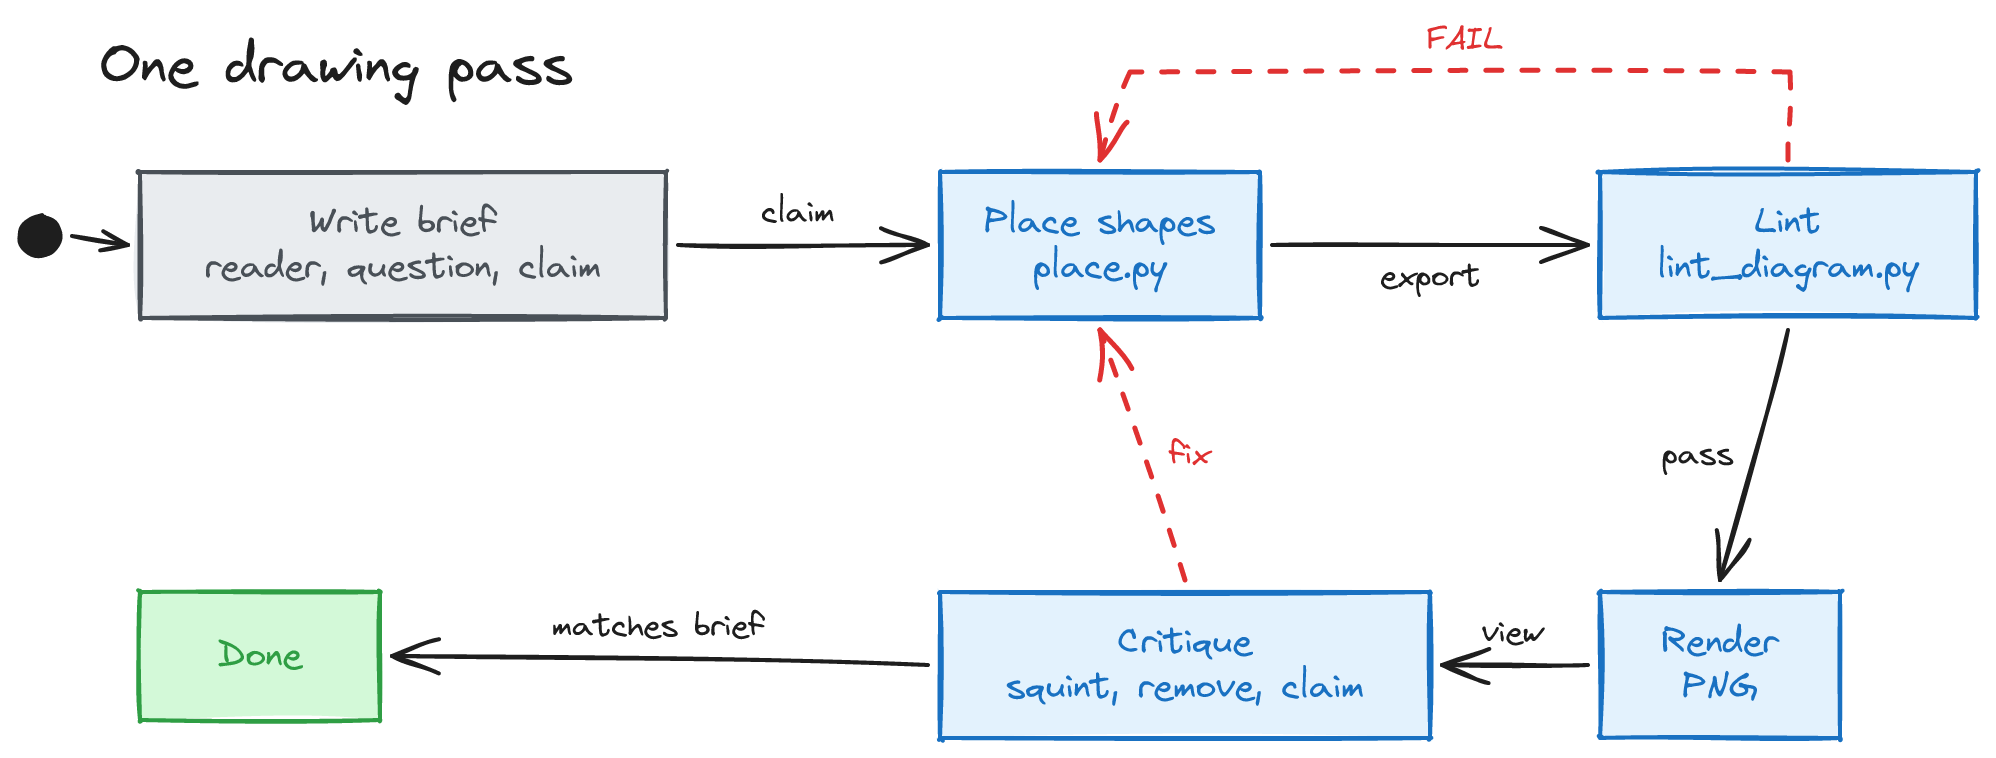
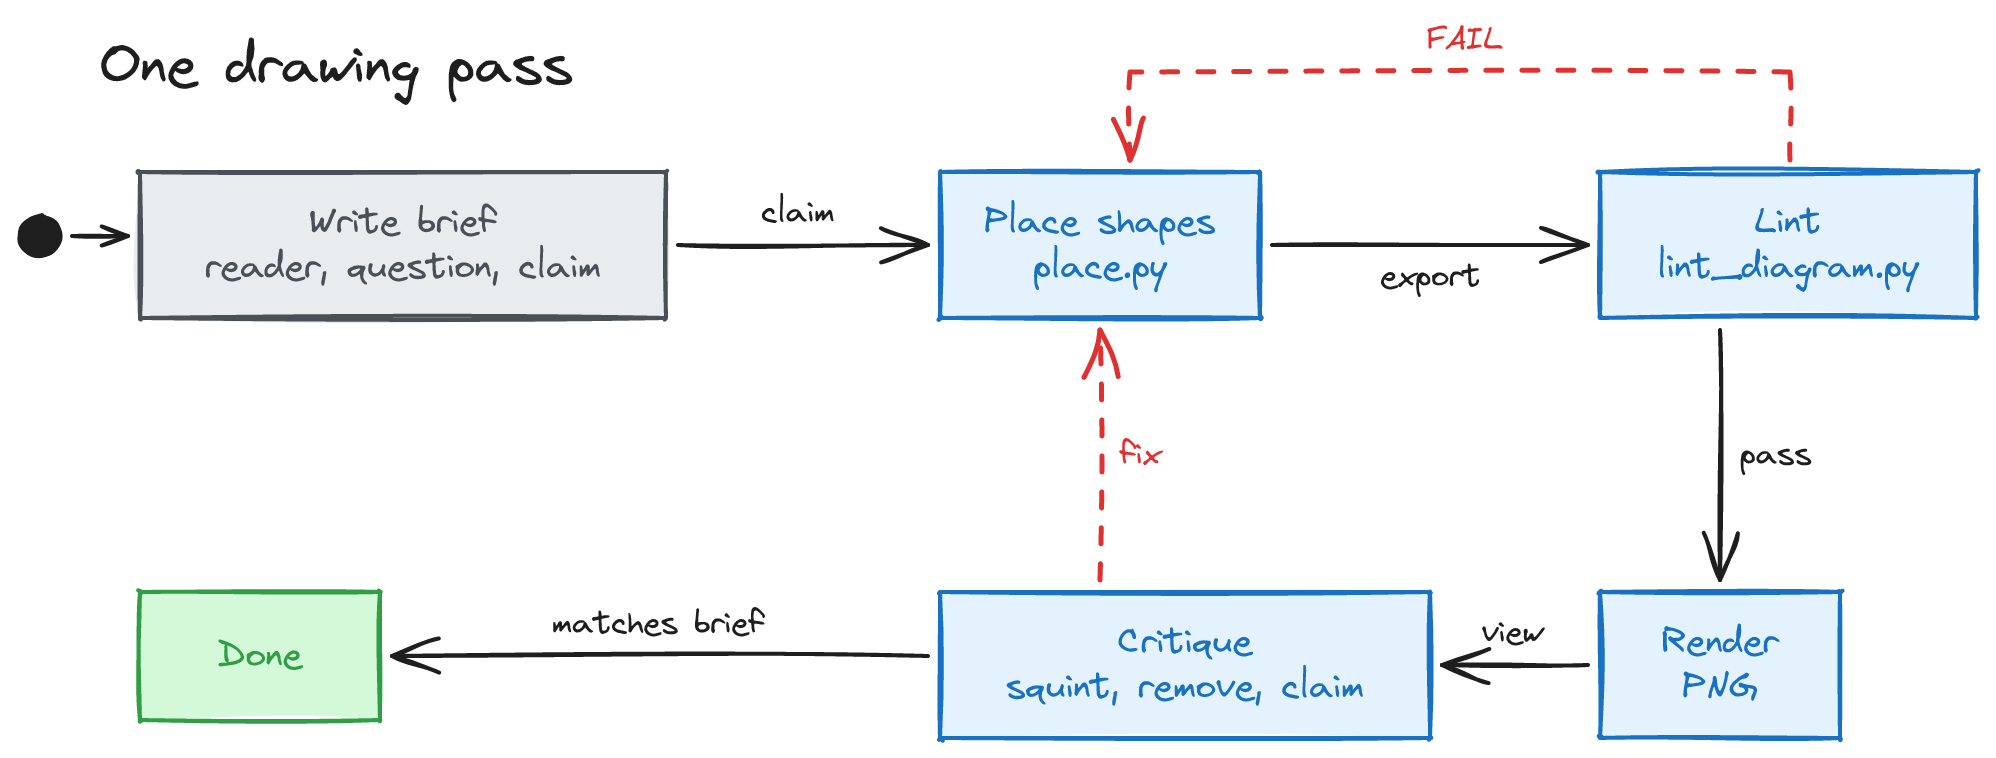
feat: make arrows that should be straight exactly straight (#1)
place.py now snaps a straight arrow to an exact vertical or horizontal when its
boxes overlap across it. It also lines up an arrow's end with its first or last
via point. A diamond keeps its corner, so offset tree edges stay diagonal.

lint_diagram.py fails an arrow segment that is within 10 degrees of vertical or
horizontal but not exact. It also fails a straight arrow between boxes that line
up when the arrow is not exact. Clear diagonals and curves pass. An arrow end
that is not at a shape is a WARN.

The README diagrams are re-rendered with the fix. Four of their arrows were
crooked before.

diff --git a/scripts/lint_diagram.py b/scripts/lint_diagram.py
@@ -11,9 +11,13 @@ whose id is "<element id>-label" labels that element (place.py writes these). Na
 zone or panel title "<id>-title", never "<id>-label".
 Free text (titles, rules panels, notes) has no word limit. Raise a limit with a flag
 only when the brief says why.
+An arrow segment within --max-skew degrees of vertical or horizontal must be exact.
+So must a straight arrow between two shapes that overlap across it. Clear diagonals
+and curves pass. An arrow end far from every shape is a WARN.
 """
 import argparse
 import json
+import math
 import sys
 
 SHAPES = {"rectangle", "ellipse", "diamond"}
@@ -78,6 +82,23 @@ def overlap(a, b, pad=2):
     return a[0] < b[2] - pad and b[0] + pad < a[2] and a[1] < b[3] - pad and b[1] + pad < a[3]
 
 
+def area(e):
+    x0, y0, x1, y1 = bbox(e)
+    return (x1 - x0) * (y1 - y0)
+
+
+def band(e, k):
+    """Where an exact vertical (k=0) or horizontal (k=1) arrow can meet shape e: 10px in from its corners.
+    A diamond meets arrows only at its corners, so its band is its center line. Matches place.py."""
+    lo, hi = bbox(e)[k], bbox(e)[k + 2]
+    return ((lo + hi) / 2,) * 2 if e["type"] == "diamond" else (lo + 10, hi - 10)
+
+
+def apart(a, b, k):
+    """The two shapes have a gap between them along axis k."""
+    return max(bbox(a)[k], bbox(b)[k]) > min(bbox(a)[k + 2], bbox(b)[k + 2])
+
+
 def near(pt, box, gap=16):
     return box[0] - gap <= pt[0] <= box[2] + gap and box[1] - gap <= pt[1] <= box[3] + gap
 
@@ -91,6 +112,8 @@ def main():
     ap.add_argument("--max-arrow-words", type=int, default=5)
     ap.add_argument("--max-aspect", type=float, default=3.0, help="width / height of the drawing")
     ap.add_argument("--max-colors", type=int, default=5, help="distinct non-gray stroke colors")
+    ap.add_argument("--max-skew", type=float, default=10.0,
+                    help="degrees off vertical or horizontal that count as a crooked straight arrow")
     args = ap.parse_args()
 
     scene = json.load(sys.stdin if args.scene == "-" else open(args.scene))
@@ -169,6 +192,27 @@ def main():
                 continue
             if any(through(s, text_box(t), pad=2) for s in zip(pts, pts[1:])):
                 fails.append(f"{eid} runs through text {t['id']}. Move the text off the line.")
+
+    for eid in ids:
+        pts = paths[eid]
+        curve = len(pts) > 2 and by_id[eid].get("roundness")
+        crooked = False
+        for (ax, ay), (bx, by) in [] if curve else zip(pts, pts[1:]):
+            dx, dy = abs(bx - ax), abs(by - ay)
+            skew = math.degrees(math.atan2(min(dx, dy), max(dx, dy)))
+            if min(dx, dy) > 0.5 and skew < args.max_skew:
+                axis = "vertical" if dy > dx else "horizontal"
+                fails.append(f"{eid}: a segment is {skew:.1f} degrees off {axis}. Make it exact, or clearly diagonal.")
+                crooked = True
+                break
+        a, b = (min((s for s in shapes if near(end, bbox(s))), key=area, default=None) for end in (pts[0], pts[-1]))
+        if not a or not b:
+            warns.append(f"{eid}: an end is not at a shape. Arrows should run box to box.")
+        elif len(pts) == 2 and a is not b and not crooked:
+            for k, axis in ((0, "vertical"), (1, "horizontal")):
+                (alo, ahi), (blo, bhi) = band(a, k), band(b, k)
+                if max(alo, blo) <= min(ahi, bhi) and apart(a, b, 1 - k) and abs(pts[0][k] - pts[1][k]) > 0.5:
+                    fails.append(f"{eid}: {a['id']} and {b['id']} line up, so the arrow must be exactly {axis}.")
 
     for t in texts:
         if t.get("containerId"):

diff --git a/scripts/place.py b/scripts/place.py
@@ -176,17 +176,48 @@ class Diagram:
                 ports[(i, end)] = p
         return ports
 
+    @staticmethod
+    def _band(e, k):
+        """Where an exactly vertical (k=0) or horizontal (k=1) arrow may meet shape e: 10px in from its corners.
+
+        A diamond attaches only at its corners, so its band is the center line.
+        """
+        lo, size = e["xy"[k]], e["width" if k == 0 else "height"]
+        if e["type"] == "diamond":
+            return lo + size / 2, lo + size / 2
+        return lo + 10, lo + size - 10
+
+    def _snap(self, r, p0, p1):
+        """Make a straight arrow exactly vertical or horizontal when its shapes overlap across it.
+
+        The shared line runs through the narrower shape's port, clamped into both bands.
+        """
+        k = 0 if self._sides(r)[0] in "tb" else 1  # the coordinate both ends must share
+        (slo, shi), (tlo, thi) = self._band(self.shapes[r["a"]], k), self._band(self.shapes[r["b"]], k)
+        lo, hi = max(slo, tlo), min(shi, thi)
+        if lo > hi:
+            return p0, p1
+        v = min(max((p0 if shi - slo <= thi - tlo else p1)[k], lo), hi)
+        return tuple((v, p[1]) if k == 0 else (p[0], v) for p in (p0, p1))
+
+    def _toward(self, name, side, p, q):
+        """Slide end p along its side to line up with bend point q, when the shape allows it."""
+        k = 0 if side in "tb" else 1
+        lo, hi = self._band(self.shapes[name], k)
+        return ((q[0], p[1]) if k == 0 else (p[0], q[1])) if lo <= q[k] <= hi else p
+
     def _arrows(self):
         ports = self._ports()
         for i, r in enumerate(self.arrows):
             p0, p1 = ports[(i, 0)], ports[(i, 1)]
             if r["via"]:
-                pts = [p0, *r["via"], p1]
+                sa, sb = self._sides(r)
+                pts = [self._toward(r["a"], sa, p0, r["via"][0]), *r["via"], self._toward(r["b"], sb, p1, r["via"][-1])]
             elif (self._sides(r)[0] in "lr") != (self._sides(r)[1] in "lr"):  # elbow: one corner
                 corner = (p1[0], p0[1]) if self._sides(r)[0] in "lr" else (p0[0], p1[1])
                 pts = [p0, corner, p1]
             else:
-                pts = [p0, p1]
+                pts = list(self._snap(r, p0, p1))
             stroke, _, dash = self._style(r["fam"], r["change"])
             x0, y0 = pts[0]
             self.els.append({"id": self.id(r["name"]), "type": "arrow", "x": x0, "y": y0,

diff --git a/README.md b/README.md
@@ -8,7 +8,7 @@ An agent skill for Claude Code and Codex. It draws diagrams that explain code, c
 
 The agent reads `SKILL.md` to decide what to draw. It chooses box positions on a grid and passes them to `place.py`. `place.py` sizes the boxes, routes the arrows, and prints Excalidraw elements as JSON. The agent pipes that JSON to the `mcp-excalidraw-server` CLI, which draws the elements on a local canvas server.
 
-The agent then exports the scene and runs `lint_diagram.py`. The lint checks the box count, the words per label, the number of colors, and the aspect ratio. When the lint passes, the CLI renders the scene to a PNG without a browser. The agent views the PNG and critiques it against its brief.
+The agent then exports the scene and runs `lint_diagram.py`. The lint checks the box count, the words per label, the number of colors, and the aspect ratio. It also fails a crooked arrow. When two boxes line up across an arrow, the arrow must be exactly vertical or horizontal, and `place.py` draws it that way. Diagonals and curves pass. When the lint passes, the CLI renders the scene to a PNG without a browser. The agent views the PNG and critiques it against its brief.
 
 ![One drawing pass: write a brief, place shapes, lint, render, critique, and loop back on a lint failure or a fix](docs/drawing-pass.png)
 

diff --git a/SKILL.md b/SKILL.md
@@ -95,6 +95,7 @@ Grid rules:
 - `box(..., change="added")` takes the code-change palette in section 6. `fam` takes a color family.
 - `zone()` draws a dotted boundary. Place it before its contents.
 - `arrow(..., route="elbow")` turns one corner. `via=[(x, y)]` adds bend points around an obstacle.
+- When two boxes overlap across an arrow, `place.py` makes the arrow exactly vertical or horizontal. It also lines up an arrow's end with its first or last `via` point. Lint fails any arrow that is almost straight but not exact.
 
 By type:
 
